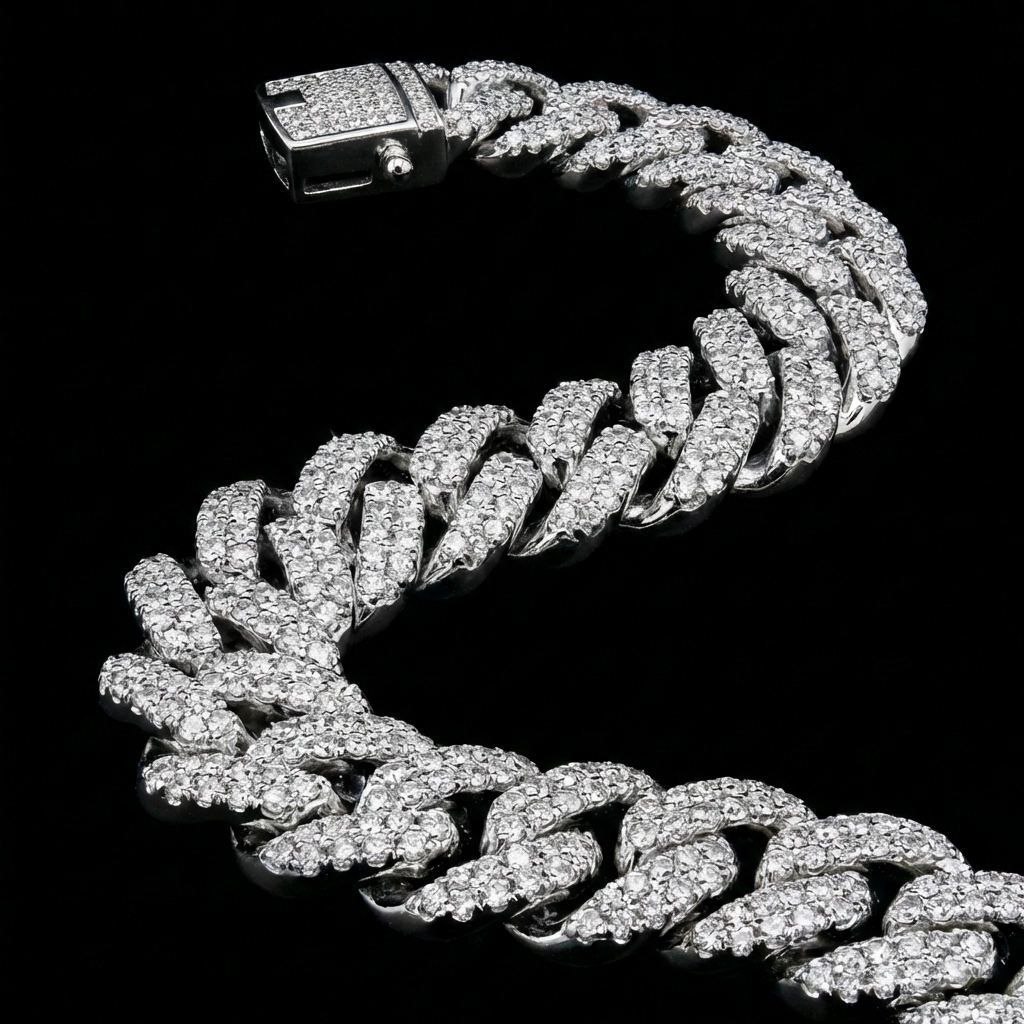
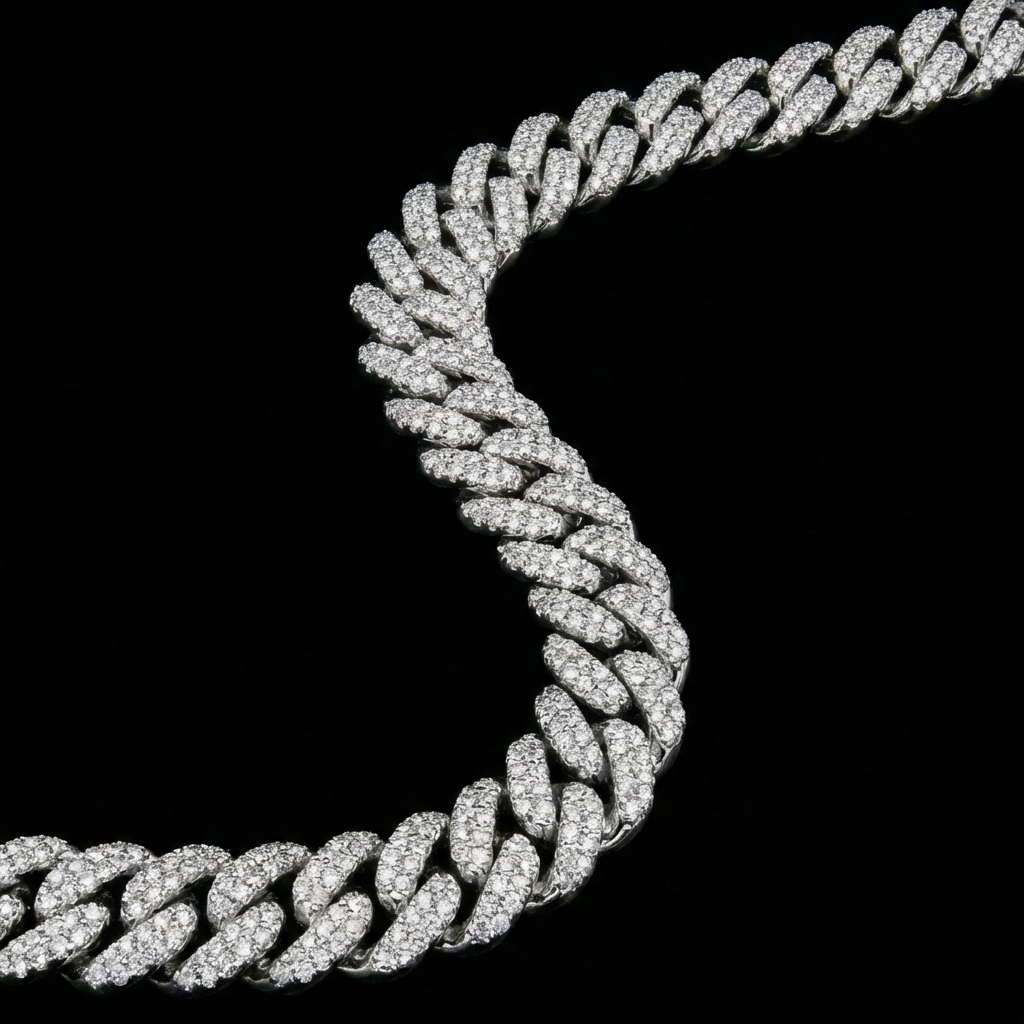
Fix: Upgrade PC Hero to Snake Chain V2 (Bottom-Left to Top-Right) and add Desktop CSS overrides

diff --git a/src/main.js b/src/main.js
@@ -156,7 +156,7 @@ function initHero() {
 
   const img = document.createElement('img'); // FIX: Define img before use
 
-  img.src = imgPath + '?v=8';
+  img.src = imgPath + '?v=9';
   img.className = 'hero-primary-visual';
 
   // Ensure "Cutout" effect by blending black background
